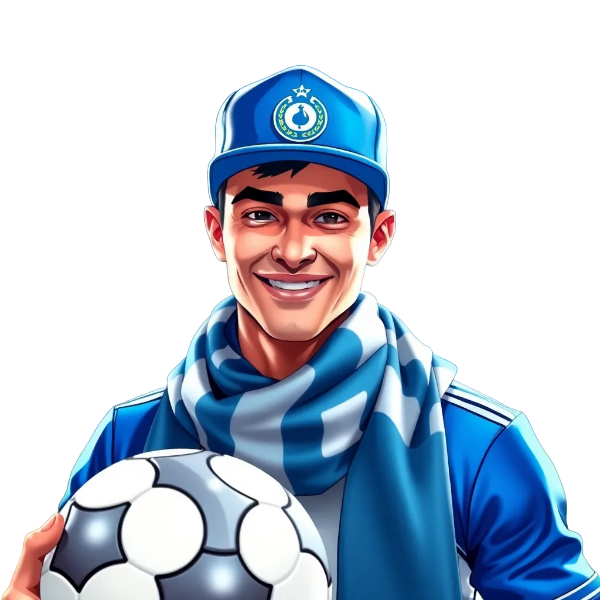
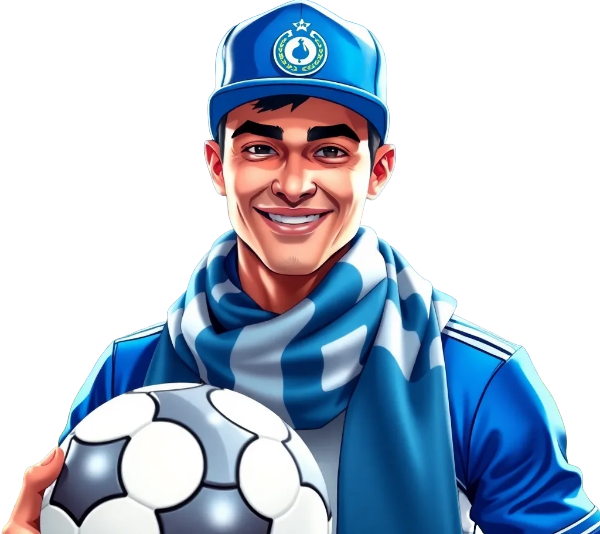
styling edits

diff --git a/pages/chat.py b/pages/chat.py
@@ -91,8 +91,8 @@ def analyze_question(question):
 
 # This method is to show the porevious questions is the chat
 def show():
-    st.title("Abo Rakan")
-    st.write("I am Abo Rakan, Ask me anything about Al-Hilal and I will tell you how Al-Hilal is a great team.")
+    st.title("Abu Rakan")
+    st.write("I am Abu Rakan, Ask me anything about Al-Hilal and I will tell you how Al-Hilal is a great team.")
 
     # Initialize or persist chat history
     if 'questions' not in st.session_state:
@@ -106,11 +106,11 @@ def show():
         with st.chat_message("YOU"):
             st.write(question)
         # Display assistant messages
-        with st.chat_message("Abo Rakan"):
+        with st.chat_message("Abu Rakan"):
             st.write(response)
 
     # Capture new user input
-    question = st.chat_input("chat with Abo Rakan")
+    question = st.chat_input("chat with Abu Rakan")
     if question:
         # Add the question to session state
         st.session_state['questions'].append(question)
@@ -121,7 +121,7 @@ def show():
 
         time.sleep(2)
         
-        with st.chat_message("Abo Rakan"):
+        with st.chat_message("Abu Rakan"):
             placeholder = st.empty()
             placeholder.write(". ")
             time.sleep(1)

diff --git a/pages/about_us.py b/pages/about_us.py
@@ -2,13 +2,13 @@ import streamlit as st
 
 def show():
     st.title("About Developers🧑💻")
-    st.write("This chat pot was developed by: ")
-    
-    st.write("- Sama Aldawayhie")
-    st.write("- Sarah Alenazi")
-    st.write("- Basel Felemban")
-    st.write("- Tariq ALshammari")
-    st.write("- Salwa ")
+    st.write("## This chat pot was developed by: ")
+        
+    st.write("### *Sama Aldawayhie*")
+    st.write("### *Sarah Alenazi*")
+    st.write("### *Basel Felemban*")
+    st.write("### *Tariq ALshammari*")        
+    st.write("### *Salwa Alshamrani*")
 
 
 show()

diff --git a/pages/home.py b/pages/home.py
@@ -11,11 +11,9 @@ st.markdown(
     """
     <style>
     body {
-       background-image: url('pages\\backg.jpg');  
         background-size: cover;
         color: white;
         font-family: 'Arial', sans-serif;
-
     }
     .title {
         font-size: 1.4em;
@@ -35,7 +33,7 @@ st.markdown(
 
 col1, col2 = st.columns([1, 2], gap="medium")
 with col1:
-    st.image("pages\\abu_rakan2.png")
+    st.image("pages\\abu_rakan.png")
 with col2:
     st.markdown("<div class='title'>Chat with Al-Hilal Big Fan Abu Rakan ⚽🌟</div>", unsafe_allow_html=True)
     st.markdown(
